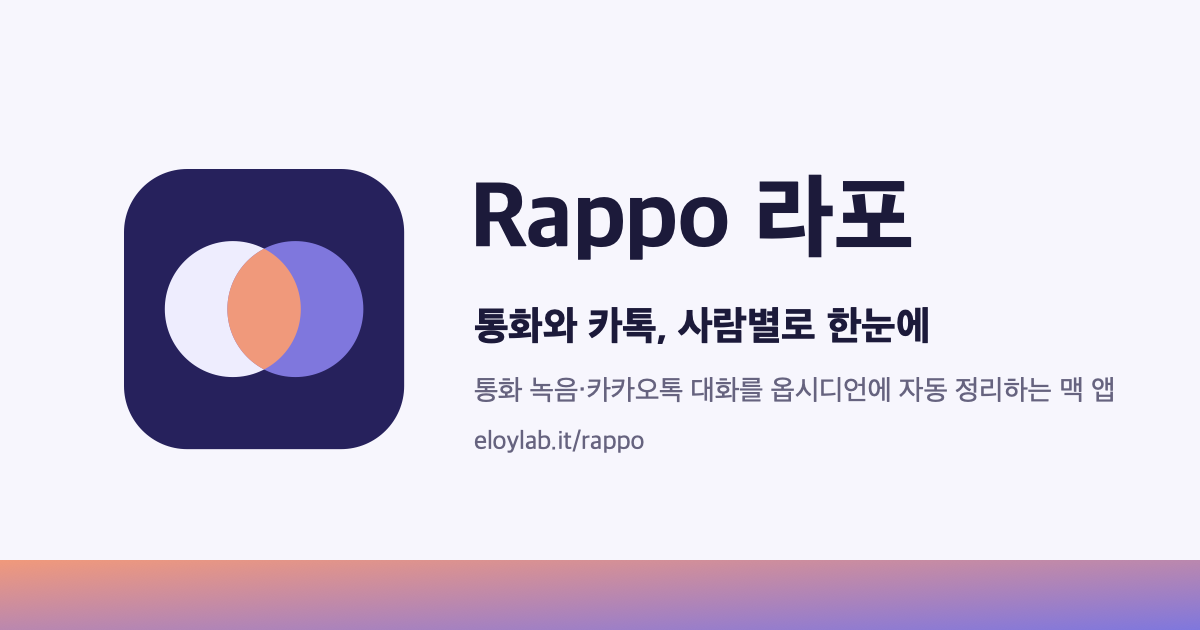
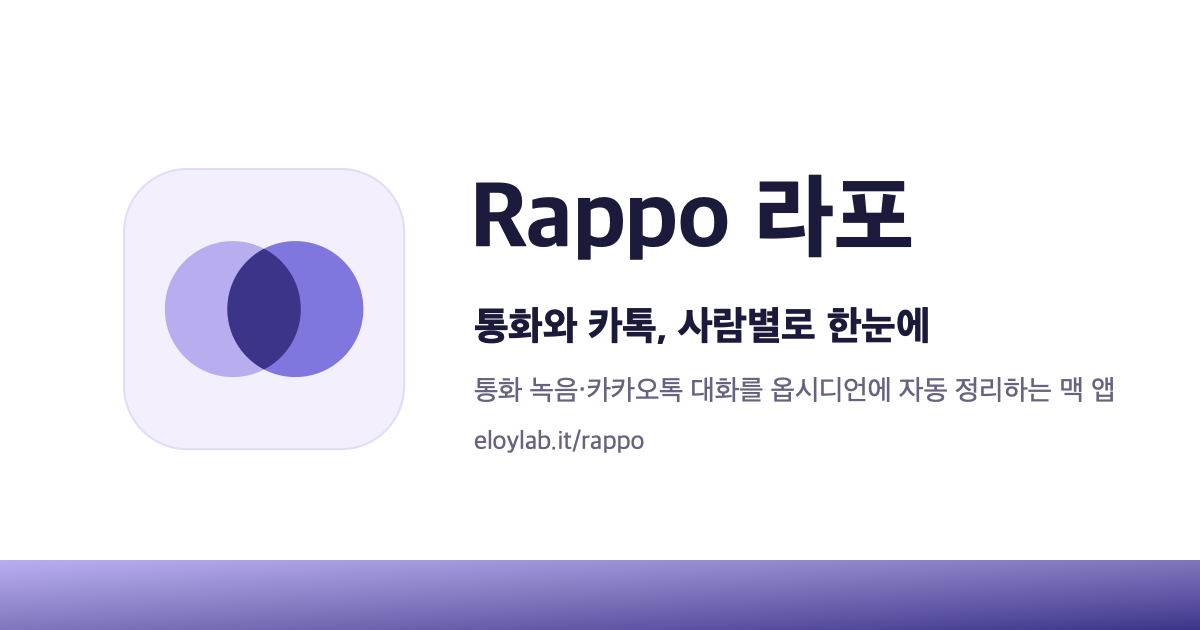
라포 아이콘·페이지 색: 보라 교집합

Changed region(s): [[0.0, 0.8746, 1.0, 1.0], [0.0925, 0.2413, 0.3392, 0.7238]]

diff --git a/index.html b/index.html
@@ -146,8 +146,8 @@
             <div class="pv-bar"><i></i><i></i><i></i><span>Obsidian · 통화기록 대시보드</span></div>
             <div class="pv-screen">
               <svg viewBox="0 0 320 200" role="img" aria-label="카톡과 통화를 합쳐 최근에 연락한 사람 순서로 보여 주는 목록">
-                <defs><linearGradient id="rg" x1="0" y1="0" x2="1" y2="1"><stop offset="0" stop-color="#F0997B"/><stop offset="1" stop-color="#7F77DD"/></linearGradient></defs>
-                <rect width="320" height="200" fill="#f7f6fd"/>
+                <defs><linearGradient id="rg" x1="0" y1="0" x2="1" y2="1"><stop offset="0" stop-color="#7F77DD"/><stop offset="1" stop-color="#3C3489"/></linearGradient></defs>
+                <rect width="320" height="200" fill="#f6f4fe"/>
                 <text x="18" y="26" font-size="12" font-weight="800" fill="#221a22">🕘 최근 연락</text>
                 <g font-size="10" fill="#221a22">
                   <g class="r-row" style="--d:0s"><text x="18" y="50" font-weight="700">홍길동</text><text x="302" y="50" text-anchor="end" fill="#8a7e8c">오늘 14:07</text>

diff --git a/rappo/index.html b/rappo/index.html
@@ -13,12 +13,12 @@
   <meta property="og:url" content="https://eloylab.it/rappo/">
   <meta property="og:image" content="https://eloylab.it/rappo/og.png">
   <meta name="twitter:card" content="summary_large_image">
-  <meta name="theme-color" content="#f7f6fd">
+  <meta name="theme-color" content="#f6f4fe">
   <link rel="icon" href="icon.svg" type="image/svg+xml">
   <link rel="preconnect" href="https://fonts.googleapis.com">
   <link rel="preconnect" href="https://fonts.gstatic.com" crossorigin>
   <link href="https://fonts.googleapis.com/css2?family=Noto+Sans+KR:wght@400;500;700;900&display=swap" rel="stylesheet">
-  <link rel="stylesheet" href="rappo.css?v=2">
+  <link rel="stylesheet" href="rappo.css?v=3">
   <script src="../analytics.js" defer></script>
   <script type="application/ld+json">
   {"@context":"https://schema.org","@type":"SoftwareApplication","name":"Rappo","alternateName":"라포",

diff --git a/rappo/rappo.css b/rappo/rappo.css
@@ -1,6 +1,6 @@
 :root {
-  --bg: #f7f6fd; --card: #fff; --ink: #1c1a3a; --muted: #66637f; --line: #e4e2f5;
-  --c1: #F0997B; --c2: #a77fc6; --c3: #7F77DD;
+  --bg: #f6f4fe; --card: #fff; --ink: #1c1a3a; --muted: #66637f; --line: #e4e2f5;
+  --c1: #8F87E6; --c2: #6A61D0; --c3: #3C3489;
   --grad: linear-gradient(135deg, var(--c1), var(--c2) 55%, var(--c3));
 }
 @media (prefers-color-scheme: dark) {
